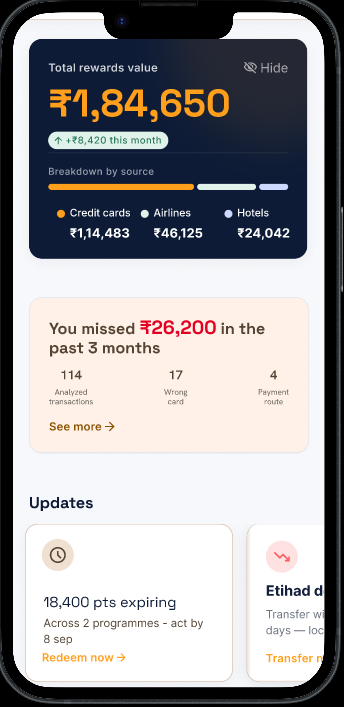
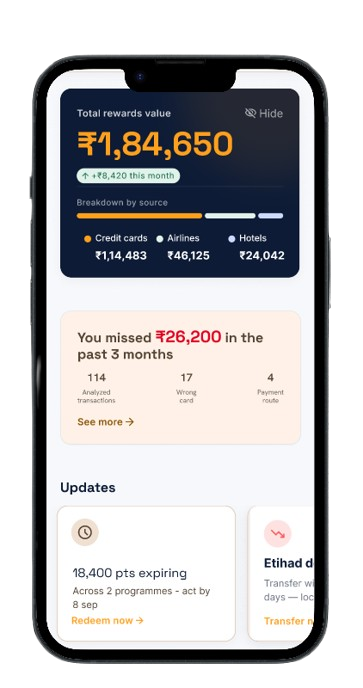
fix: new mobile mockup

diff --git a/styles.css b/styles.css
@@ -249,7 +249,7 @@ body {
     min-height: 530px;
     display: grid;
     place-items: center;
-    --hero-scale: .85;
+    --hero-scale: 1.15;
     transform: scale(var(--hero-scale));
     transform-origin: center
 }
@@ -298,6 +298,7 @@ body {
 }
 
 .phone-shell-mockup {
+    aspect-ratio: 363 / 688;
     background-image: none;
     box-shadow: none
 }
@@ -306,6 +307,7 @@ body {
     display: block;
     width: 100%;
     height: 100%;
+    object-fit: contain;
     filter: drop-shadow(0 35px 70px rgba(0, 0, 0, .38))
 }
 
@@ -435,13 +437,13 @@ body {
 }
 
 .alert-card {
-    left: -198px;
-    top: 8px
+    left: -158px;
+    top: 60px
 }
 
 .trip-card {
-    left: -198px;
-    bottom: 113px
+    left: -158px;
+    bottom: 93px
 }
 
 .ambient {
